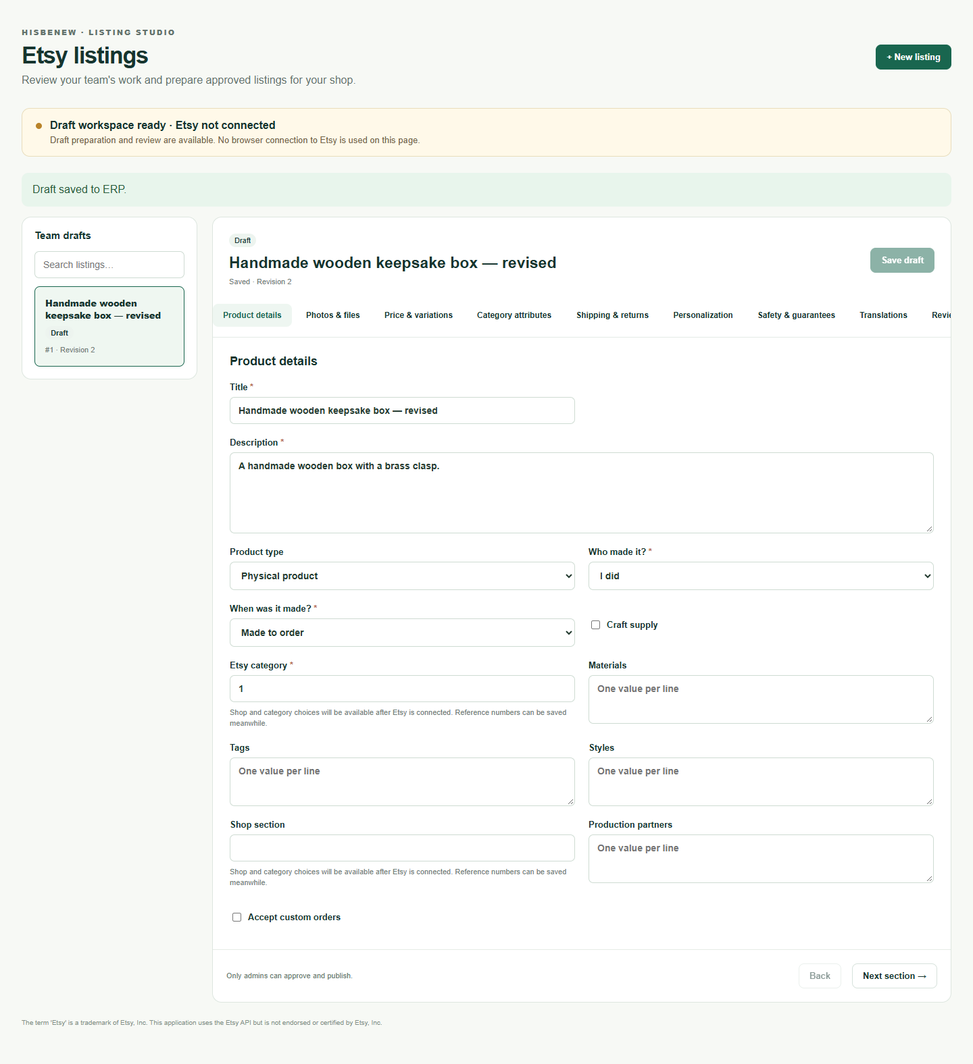
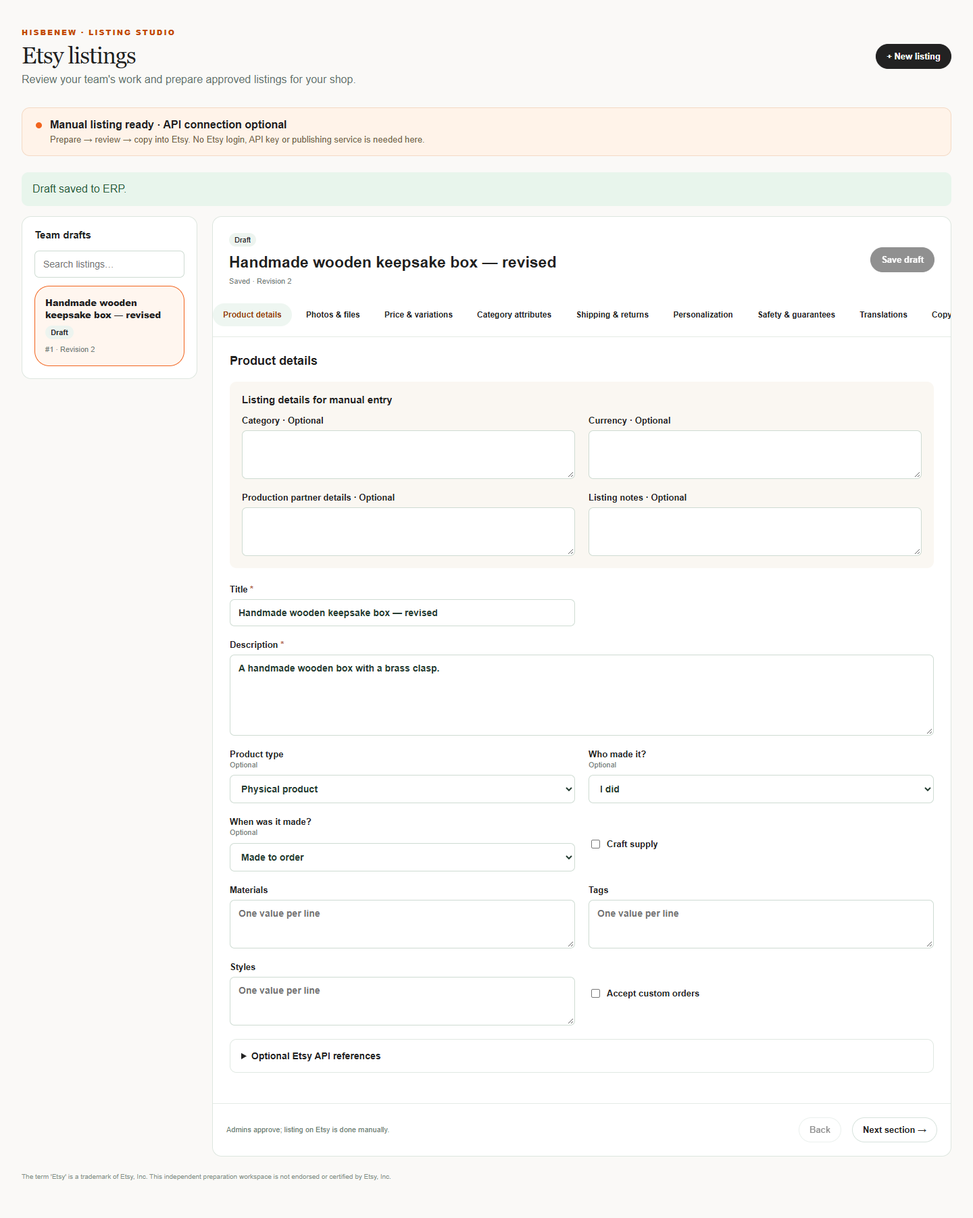
Make Etsy connection optional with manual listing copy workflow

diff --git a/frontend/src/pages/EtsyListings.jsx b/frontend/src/pages/EtsyListings.jsx
@@ -35,8 +35,14 @@ const groups = [
   { name: "Personalization", operations: ["updateListingPersonalization"] },
   { name: "Safety & guarantees", prefix: ["gpsr_", "ecgt_"] },
   { name: "Translations", operations: ["updateListingTranslation"] },
-  { name: "Review & history" },
+  { name: "Copy to Etsy & review" },
 ];
+function copyFields(value, prefix = "") {
+  if (value == null || value === "") return [];
+  if (Array.isArray(value) && value.every((item) => typeof item !== "object")) return value.length ? [[prefix, value.join(", ")]] : [];
+  if (typeof value === "object") return Object.entries(value).flatMap(([key, child]) => copyFields(child, [prefix, Array.isArray(value) ? `Option ${Number(key) + 1}` : title(key)].filter(Boolean).join(" · ")));
+  return [[prefix, typeof value === "boolean" ? (value ? "Yes" : "No") : String(value)]];
+}
 const operationNames = {
   uploadListingImage: "Photo descriptions and order", uploadListingVideo: "Video details", uploadListingFile: "Digital download details",
   updateVariationImages: "Variation photos", updateListingInventory: "Variants and stock", updateListingProperty: "Category-specific attributes",
@@ -66,7 +72,7 @@ function FieldEditor({ name, schema, value, onChange, required = false }) {
   const choiceLabels = { i_did: "I did", someone_else: "Someone else", collective: "A member of my shop", made_to_order: "Made to order", physical: "Physical product", download: "Digital download", both: "Physical and digital (where supported)", text_input: "Text answer", seller: "Our shop", economic_operator: "Registered economic operator" };
   const long = /description|instructions|warnings|details|info/.test(name);
   const help = name.endsWith("_id") || name.endsWith("_ids") ? "Shop and category choices will be available after Etsy is connected. Reference numbers can be saved meanwhile." : null;
-  return <label className={long ? "etsy-wide" : ""}><span>{title(name)}{required && <span className="etsy-required"> *</span>}</span>
+  return <label className={long ? "etsy-wide" : ""}><span>{title(name)}{required ? <span className="etsy-required"> *</span> : <small>Optional</small>}</span>
     {schema.enum ? <select value={value ?? ""} onChange={(e) => onChange(e.target.value || null)}><option value="">Choose…</option>{schema.enum.map((item) => <option key={item} value={item}>{choiceLabels[item] || item.replaceAll("_", " ")}</option>)}</select>
       : long ? <textarea rows={name === "description" ? 6 : 3} value={value ?? ""} onChange={(e) => onChange(e.target.value)} />
       : <input type={["integer", "number"].includes(schema.type) ? "number" : "text"} step={schema.type === "integer" ? "1" : "any"} min={schema.minimum} value={value ?? ""} maxLength={name === "title" ? 140 : undefined} onChange={(e) => onChange(e.target.value === "" ? null : ["integer", "number"].includes(schema.type) ? Number(e.target.value) : e.target.value)} />}
@@ -116,7 +122,7 @@ export default function EtsyListings() {
   const transition = (action) => run(async () => {
     if (dirty) throw new Error("Save changes before submitting or reviewing.");
     const result = await api.post(`${ROOT}/drafts/${selected.id}/transition`, { revision: selected.revision, action, note });
-    adopt(result.data); setMessage(action === "approve" ? "Approved for future publishing. Nothing has been sent to Etsy." : "Listing status updated.");
+    adopt(result.data); setMessage(action === "approve" ? "Approved for manual listing. Open Copy to Etsy to copy the details and download photos." : "Listing status updated.");
   });
   const upload = (kind, file) => run(async () => {
     if (!file) return;
@@ -125,9 +131,9 @@ export default function EtsyListings() {
     const result = await api.post(`${ROOT}/drafts/${selected.id}/assets`, form);
     adopt(result.data); setMessage("File saved privately in ERP.");
   });
-  const openFile = (asset) => run(async () => {
+  const openFile = (asset, download = false) => run(async () => {
     const result = await api.get(`${ROOT}/drafts/${selected.id}/assets/${asset.id}`, { responseType: "blob" });
-    if (asset.kind === "image") {
+    if (asset.kind === "image" && !download) {
       const ext = asset.filename.split(".").pop().toLowerCase();
       const url = URL.createObjectURL(new Blob([result.data], { type: ext === "jpg" || ext === "jpeg" ? "image/jpeg" : `image/${ext}` }));
       setPreview({ url, name: asset.filename });
@@ -142,36 +148,41 @@ export default function EtsyListings() {
   const section = groups[tab];
   const fields = section.prefix ? Object.keys(base.properties).filter((key) => section.prefix.some((prefix) => key.startsWith(prefix))) : section.fields || [];
   return <main className="etsy-workspace">
-    <header className="etsy-heading"><div><p className="etsy-eyebrow">HISBENEW · LISTING STUDIO</p><h1>Etsy listings</h1><p>{workspace.is_admin ? "Review your team's work and prepare approved listings for your shop." : "Prepare listings for the shop. Your administrator reviews and publishes."}</p></div><button className="etsy-primary" disabled={busy || dirty} onClick={create}>+ New listing</button></header>
-    <div className="etsy-connection"><span className="etsy-dot" /><div><strong>Draft workspace ready · Etsy not connected</strong><p>{workspace.connection.message} No browser connection to Etsy is used on this page.</p></div></div>
+    <header className="etsy-heading"><div><p className="etsy-eyebrow">HISBENEW · LISTING STUDIO</p><h1>Etsy listings</h1><p>{workspace.is_admin ? "Review your team's work and prepare approved listings for your shop." : "Prepare listing details and photos. Your administrator reviews them for manual listing on Etsy."}</p></div><button className="etsy-primary" disabled={busy || dirty} onClick={create}>+ New listing</button></header>
+    <div className="etsy-connection"><span className="etsy-dot" /><div><strong>Manual listing ready · API connection optional</strong><p>Prepare → review → copy into Etsy. No Etsy login, API key or publishing service is needed here.</p></div></div>
     {error && <div className="etsy-error" role="alert">{error}</div>}{message && <div className="etsy-success" role="status">{message}</div>}
     <div className="etsy-layout"><aside className="etsy-drafts"><h2>{workspace.is_admin ? "Team drafts" : "My drafts"}</h2><input aria-label="Search drafts" placeholder="Search listings…" value={filter} onChange={(e) => setFilter(e.target.value)} />
       {workspace.drafts.filter((row) => row.title.toLowerCase().includes(filter.toLowerCase())).map((row) => <button key={row.id} className={selected?.id === row.id ? "etsy-draft active" : "etsy-draft"} onClick={() => choose(row)} disabled={busy}><strong>{row.title}</strong><span>{row.status}</span><small>#{row.id} · Revision {row.revision}</small></button>)}
       {!workspace.drafts.length && <p className="etsy-muted">Your first listing starts here. Add product information, then submit it for review.</p>}</aside>
-      {!selected ? <section className="etsy-empty"><span>01 / PREPARE</span><h2>A clear path from product to listing.</h2><p>Product details → photos and variations → admin review → publication after connection.</p><button className="etsy-primary" onClick={create} disabled={busy}>Create a draft</button></section>
+      {!selected ? <section className="etsy-empty"><span>01 / PREPARE</span><h2>A clear path from product to listing.</h2><p>Product details → photos and variations → review → copy and paste into Etsy.</p><button className="etsy-primary" onClick={create} disabled={busy}>Create a draft</button></section>
         : <section className="etsy-editor"><div className="etsy-editor-heading"><div><span className="etsy-status">{selected.status}</span><h2>{data.createDraftListing?.title || "Untitled listing"}</h2><small>{dirty ? "Unsaved changes" : `Saved · Revision ${selected.revision}`}</small></div>{editable && <button className="etsy-primary" onClick={save} disabled={busy || !dirty}>Save draft</button>}</div>
           {selected.review_note && <div className="etsy-review-note"><strong>Admin feedback</strong><p>{selected.review_note}</p></div>}
           <nav className="etsy-tabs" aria-label="Listing sections">{groups.map((group, i) => <button key={group.name} className={tab === i ? "active" : ""} onClick={() => setTab(i)}>{group.name}</button>)}</nav>
           <div className="etsy-section"><h2>{section.name}</h2>
-            {tab === 3 && <p className="etsy-muted">Attributes depend on the selected Etsy category. The connected version will load its choices, scales and required attributes automatically. This workspace currently accepts reference values for preparation.</p>}
+            {tab === 3 && <p className="etsy-muted">Describe category attributes in plain language below. Your publisher can select the matching options on Etsy.</p>}
             {tab === 5 && <p className="etsy-muted">Etsy currently documents support for one text-answer question. Other question types appear in its API schema but must remain unavailable for publication until supported.</p>}
-            {tab === 4 && <p className="etsy-muted">Choose the shop's shipping, processing and return policies after connection. Digital downloads do not use physical shipping profiles.</p>}
+            {tab === 4 && <p className="etsy-muted">Describe shipping, processing and return policies below; choose the matching policies when listing on Etsy. Digital downloads do not use physical shipping profiles.</p>}
             {tab !== 8 && <fieldset disabled={!editable || busy} key={`${selected.id}-${selected.revision}-${tab}`} className="etsy-form">
               {tab === 1 && <><div className="etsy-uploads">{[["image", "Add photo", ".jpg,.jpeg,.png,.webp"], ["video", "Add video", ".mp4,.mov"], ["digital", "Add digital file", ".pdf,.zip,.png,.jpg,.jpeg,.txt,.svg,.stl,.epub,.mp3"]].map(([kind, label, accept]) => <label key={kind}>{label}<input type="file" accept={accept} disabled={dirty} onChange={(e) => { upload(kind, e.target.files[0]); e.target.value = ""; }} /></label>)}</div><p className="etsy-muted">Up to 20 photos, one video and five digital files. Save text changes before uploading.</p></>}
-              <div className="etsy-field-grid">{fields.map((key) => <FieldEditor key={key} name={key} schema={base.properties[key]} value={data.createDraftListing?.[key]} required={base.required.includes(key)} onChange={(v) => change("createDraftListing", { ...data.createDraftListing, [key]: v })} />)}</div>
+              {[0, 2, 3, 4].includes(tab) && <div className="etsy-manual-notes"><h3>{tab === 0 ? "Listing details for manual entry" : "Optional instructions for the person listing on Etsy"}</h3><div className="etsy-field-grid">{({0: ["category", "currency", "production_partner_details", "listing_notes"], 2: ["variation_instructions"], 3: ["attributes"], 4: ["shipping_instructions", "processing_instructions", "return_instructions"]}[tab]).map((key) => <label key={key}>{title(key)} · Optional<textarea rows="3" value={data.manualListing?.[key] || ""} onChange={(e) => change("manualListing", {...data.manualListing, [key]: e.target.value})} /></label>)}</div></div>}
+              <div className="etsy-field-grid">{fields.filter((key) => !key.endsWith("_id") && !key.endsWith("_ids")).map((key) => <FieldEditor key={key} name={key} schema={base.properties[key]} value={data.createDraftListing?.[key]} required={["title", "description", "price", "quantity"].includes(key)} onChange={(v) => change("createDraftListing", { ...data.createDraftListing, [key]: v })} />)}</div>
+              {fields.some((key) => key.endsWith("_id") || key.endsWith("_ids")) && <details className="etsy-operation"><summary>Optional Etsy API references</summary><p className="etsy-muted">Skip these for manual listing. Use the category and policy notes above.</p><div className="etsy-field-grid">{fields.filter((key) => key.endsWith("_id") || key.endsWith("_ids")).map((key) => <FieldEditor key={key} name={key} schema={base.properties[key]} value={data.createDraftListing?.[key]} onChange={(v) => change("createDraftListing", {...data.createDraftListing, [key]: v})} />)}</div></details>}
               {(section.operations || []).map((operation) => <details className="etsy-operation" key={operation} open={operation === "updateListingPersonalization"}><summary>{operationNames[operation]}</summary><FieldEditor name={operation} schema={schema[operation]} value={data[operation]} onChange={(v) => change(operation, v)} /></details>)}
             </fieldset>}
             {tab === 1 && <><div className="etsy-asset-list">{selected.assets.map((asset) => <div key={asset.id}><span><strong>{asset.filename}</strong><small>{asset.kind} · reference {asset.id} · {(asset.size / 1024).toFixed(0)} KB</small></span><button onClick={() => openFile(asset)} disabled={busy}>{asset.kind === "image" ? "Preview" : "Download"}</button>{editable && <button disabled={busy || dirty} onClick={() => run(async () => { const result = await api.delete(`${ROOT}/drafts/${selected.id}/assets/${asset.id}`, { params: { revision: selected.revision } }); adopt(result.data); })}>Remove</button>}</div>)}</div>{preview && <figure><img className="etsy-image-preview" src={preview.url} alt={preview.name} /><figcaption>{preview.name}</figcaption></figure>}</>}
-            {tab === 8 && <><div className="etsy-review-summary"><h3>Preparation checks</h3>{selected.issues.length ? <ul>{selected.issues.map((issue) => <li key={issue}>{issue.replaceAll("createDraftListing.", "").replaceAll("_", " ")}</li>)}</ul> : <p>Basic field checks passed. Shop profiles, category rules and media still need Etsy validation after connection.</p>}</div>
+            {tab === 8 && <><section className="etsy-copy-panel"><h3>Copy to Etsy</h3><p>Open Etsy in your usual browser. Copy each value into the matching field, download the photos, then review and publish there.</p><p className="etsy-muted">{selected.status === "Approved" ? "Approved for manual listing." : "This listing has not been approved yet."} Copying does not publish anything.</p>
+              {Object.entries(data).flatMap(([operation, values]) => copyFields(values, operation === "manualListing" || operation === "createDraftListing" ? "" : (operationNames[operation] || title(operation)))).map(([label, value]) => <div className="etsy-copy-item" key={label}><div className="etsy-row"><strong>{label}</strong><button className="etsy-copy-icon" aria-label={`Copy ${label}`} title={`Copy ${label}`} disabled={busy || dirty} onClick={() => run(async () => { await navigator.clipboard.writeText(value); setMessage(`${label} copied.`); })}><svg width="18" height="18" viewBox="0 0 24 24" fill="none" stroke="currentColor" strokeWidth="1.7" aria-hidden="true"><rect x="8" y="8" width="12" height="13" rx="2"/><path d="M16 8V5a2 2 0 0 0-2-2H5a2 2 0 0 0-2 2v9a2 2 0 0 0 2 2h3"/></svg></button></div><textarea aria-label={label + " to copy"} readOnly value={value} rows={value.length > 150 ? 5 : 2} /></div>)}
+              <h3>Photos and files</h3>{selected.assets.map((asset) => <button key={asset.id} disabled={busy} onClick={() => openFile(asset, true)}>Download {asset.filename}</button>)}{!selected.assets.length && <p>No files uploaded yet.</p>}
+              </section><div className="etsy-review-summary"><h3>Preparation checks</h3>{selected.issues.length ? <ul>{selected.issues.map((issue) => <li key={issue}>{issue.replaceAll("createDraftListing.", "").replaceAll("_", " ")}</li>)}</ul> : <p>Ready for review. Check photos, category, policies and any Etsy requirements when creating the listing.</p>}</div>
               <label>Review message<textarea value={note} onChange={(e) => setNote(e.target.value)} readOnly={!workspace.is_admin} rows="3" /></label>
               <div className="etsy-actions">{editable && <button className="etsy-primary" disabled={busy || dirty} onClick={() => transition("submit")}>Submit for review</button>}
                 {workspace.is_admin && selected.status === "In review" && <button className="etsy-primary" disabled={busy || dirty} onClick={() => transition("approve")}>Approve draft</button>}
                 {workspace.is_admin && ["In review", "Approved"].includes(selected.status) && <><button disabled={busy || dirty} onClick={() => transition("return")}>Request changes</button><button disabled={busy || dirty} onClick={() => transition("reopen")}>Reopen for editing</button></>}
-                {workspace.is_admin && <button disabled title="Connect and verify the UK publishing service first">Publish to Etsy · Not connected</button>}</div>
+                <span className="etsy-muted">List manually on Etsy after approval. API publishing is optional and not connected.</span></div>
               <h3>Activity history</h3><ol className="etsy-history">{[...selected.history].reverse().map((event, i) => <li key={i}><strong>{event.action}</strong><small>{event.actor} · {new Date(event.at + "Z").toLocaleString()}</small></li>)}</ol>
             </>}
-          </div><footer className="etsy-footer"><span>{workspace.is_admin ? "Only admins can approve and publish." : "Your access is for listing preparation only."}</span><button disabled={tab === 0} onClick={() => setTab(tab - 1)}>Back</button><button onClick={() => setTab(Math.min(tab + 1, 8))} disabled={tab === 8}>Next section →</button></footer>
+          </div><footer className="etsy-footer"><span>{workspace.is_admin ? "Admins approve; listing on Etsy is done manually." : "Your access is for listing preparation only."}</span><button disabled={tab === 0} onClick={() => setTab(tab - 1)}>Back</button><button onClick={() => setTab(Math.min(tab + 1, 8))} disabled={tab === 8}>Next section →</button></footer>
         </section>}
-    </div><p className="etsy-trademark">The term 'Etsy' is a trademark of Etsy, Inc. This application uses the Etsy API but is not endorsed or certified by Etsy, Inc.</p>
+    </div><p className="etsy-trademark">The term 'Etsy' is a trademark of Etsy, Inc. This independent preparation workspace is not endorsed or certified by Etsy, Inc.</p>
   </main>;
 }

diff --git a/frontend/src/pages/EtsyListings.css b/frontend/src/pages/EtsyListings.css
@@ -1,1 +1,4 @@
 .etsy-workspace{--etsy-ink:#17352f;--etsy-accent:#19664f;max-width:1500px;margin:0 auto;padding:32px;color:var(--etsy-ink);font-family:inherit}.etsy-workspace *{box-sizing:border-box}.etsy-heading,.etsy-row,.etsy-editor-heading,.etsy-footer,.etsy-actions{display:flex;align-items:center;justify-content:space-between;gap:16px}.etsy-heading h1{font-size:34px;letter-spacing:-1px;margin:5px 0}.etsy-heading p{color:#64736d;margin:8px 0}.etsy-eyebrow{font-size:11px;font-weight:800;letter-spacing:2px}.etsy-workspace button{border:1px solid #d7e2dc;border-radius:8px;background:white;color:var(--etsy-ink);padding:10px 15px;cursor:pointer;font:inherit;font-size:13px;font-weight:650}.etsy-workspace button:hover:not(:disabled){background:#eef6f1}.etsy-workspace button:disabled{opacity:.5;cursor:not-allowed}.etsy-workspace button.etsy-primary{background:var(--etsy-accent);color:white;border-color:var(--etsy-accent)}.etsy-connection{display:flex;gap:12px;background:#fff9e9;border:1px solid #e8ddbc;border-radius:12px;padding:16px 20px;margin:24px 0}.etsy-connection p{font-size:13px;color:#716345;margin:5px 0 0}.etsy-dot{width:9px;height:9px;background:#b98329;border-radius:50%;margin-top:5px;flex-shrink:0}.etsy-layout{display:grid;grid-template-columns:260px 1fr;gap:22px}.etsy-drafts,.etsy-editor,.etsy-empty{border:1px solid #dde6df;border-radius:14px;background:white;overflow:hidden}.etsy-drafts{padding:18px;align-self:start}.etsy-drafts h2{font-size:15px;margin:0 0 15px}.etsy-drafts input{width:100%}.etsy-workspace button.etsy-draft{display:flex;flex-direction:column;align-items:start;text-align:left;width:100%;margin-top:12px;gap:7px;padding:15px}.etsy-draft.active{border-color:#19664f;background:#eff7f1!important}.etsy-draft strong{overflow-wrap:anywhere}.etsy-draft span,.etsy-status{font-size:11px;background:#edf4ef;padding:4px 8px;border-radius:20px}.etsy-workspace small{display:block;font-size:11px;font-weight:400;line-height:1.5;color:#74827a}.etsy-editor-heading{padding:24px}.etsy-editor-heading h2{font-size:23px;margin:12px 0 6px;overflow-wrap:anywhere}.etsy-tabs{display:flex;gap:6px;overflow-x:auto;padding:0 20px 15px;border-bottom:1px solid #e4ebe5}.etsy-tabs button{white-space:nowrap;border:none;font-size:12px}.etsy-tabs button.active{background:#e9f3ed;color:#19664f}.etsy-section{padding:25px;min-height:420px}.etsy-section>h2{font-size:18px;margin:0 0 20px}.etsy-field-grid{display:grid;grid-template-columns:repeat(2,minmax(0,1fr));gap:20px}.etsy-wide{grid-column:1/-1}.etsy-workspace label{display:flex;flex-direction:column;gap:7px;font-size:13px;font-weight:600}.etsy-workspace input:not([type=checkbox]),.etsy-workspace select,.etsy-workspace textarea{border:1px solid #cedbd2;border-radius:7px;padding:11px 12px;color:#253c31;background:#fff;font:inherit;font-size:14px;min-width:0;width:100%}.etsy-workspace input:focus,.etsy-workspace textarea:focus,.etsy-workspace select:focus{outline:2px solid #a5cbb6;outline-offset:1px}.etsy-workspace textarea{resize:vertical}.etsy-check{flex-direction:row!important;align-items:center;min-height:45px}.etsy-form{border:0;padding:0;margin:0;min-width:0}.etsy-required{color:#ad4e32;display:inline}.etsy-operation{border:1px solid #e0e8e2;border-radius:10px;margin:20px 0;padding:16px}.etsy-operation summary{font-size:14px;font-weight:650;cursor:pointer}.etsy-operation[open]>summary{margin-bottom:18px}.etsy-repeat{grid-column:1/-1;min-width:0}.etsy-repeat h3{font-size:14px;margin:5px 0 12px}.etsy-repeat-item{border:1px solid #d9e4dc;border-radius:10px;padding:16px;margin:12px 0;background:#fafcf9}.etsy-repeat-item>.etsy-row{margin-bottom:15px}.etsy-repeat-item .etsy-repeat-item{background:white}.etsy-empty{padding:70px 45px;min-height:460px;background:linear-gradient(135deg,#f6faf5,#fff)}.etsy-empty>span{letter-spacing:2px;font-size:11px;color:#607e6d}.etsy-empty h2{font-size:34px;max-width:450px;line-height:1.2}.etsy-empty p{color:#718477;line-height:1.8}.etsy-empty button{margin-top:20px}.etsy-muted{font-size:13px;color:#738077;line-height:1.7}.etsy-footer{padding:20px;border-top:1px solid #e5ebe6;justify-content:flex-end}.etsy-footer>span{font-size:11px;color:#6a7b71;margin-right:auto}.etsy-uploads{display:grid;grid-template-columns:repeat(3,1fr);gap:12px}.etsy-uploads label{border:1px dashed #9bb4a4;border-radius:10px;padding:15px;background:#f7faf6}.etsy-uploads input{font-size:11px!important;padding:5px!important;border:0!important}.etsy-asset-list>div{display:flex;align-items:center;gap:10px;padding:12px 0;border-bottom:1px solid #e7ede8}.etsy-asset-list span{flex:1;overflow-wrap:anywhere}.etsy-image-preview{max-width:100%;max-height:400px;object-fit:contain}.etsy-history{padding-left:20px}.etsy-history li{padding:10px 0;font-size:13px}.etsy-review-note,.etsy-review-summary{padding:18px;background:#f3f7ed;border-radius:10px;margin-bottom:20px}.etsy-review-note{margin:0 24px 20px}.etsy-review-summary h3{margin:0 0 10px}.etsy-review-summary li{font-size:13px;margin:8px 0}.etsy-actions{justify-content:flex-start;flex-wrap:wrap;margin:20px 0}.etsy-error,.etsy-success{padding:16px;border-radius:10px;margin:15px 0;white-space:pre-wrap}.etsy-error{background:#fff0ec;color:#933b2b}.etsy-success{background:#e8f5ec;color:#265b39}.etsy-trademark{font-size:10px;color:#839087;margin:24px 0}.etsy-workspace fieldset:disabled input,.etsy-workspace fieldset:disabled textarea,.etsy-workspace fieldset:disabled select{background:#f5f7f4;color:#6e7870}@media(max-width:950px){.etsy-layout{grid-template-columns:1fr}.etsy-drafts{display:flex;gap:10px;overflow:auto;align-items:center}.etsy-drafts h2{min-width:90px}.etsy-drafts>input{min-width:160px}.etsy-workspace button.etsy-draft{min-width:190px;max-width:240px;margin:0}.etsy-workspace{padding:18px}}@media(max-width:600px){.etsy-heading{align-items:flex-start}.etsy-heading h1{font-size:27px}.etsy-field-grid,.etsy-uploads{grid-template-columns:1fr}.etsy-section{padding:18px}.etsy-editor-heading{padding:18px}.etsy-footer{flex-wrap:wrap}.etsy-footer>span{width:100%}.etsy-empty{padding:40px 24px}.etsy-workspace{padding:12px}.etsy-drafts>input{display:none}}
+
+/* Familiar marketplace form styling, with manual publishing as the default. */
+.etsy-workspace{--etsy-ink:#222;--etsy-accent:#222;background:#faf9f7}.etsy-heading h1{font-family:Georgia,serif;font-weight:400}.etsy-eyebrow{color:#c44900!important}.etsy-connection{background:#fff3e9;border-color:#f4dac5}.etsy-dot{background:#f1641e}.etsy-tabs button.active{background:#fff0e5;color:#963c09}.etsy-workspace button{border-radius:22px}.etsy-draft.active{border-color:#f1641e;background:#fff6ef!important}.etsy-copy-panel{border:1px solid #e5ddd6;padding:20px;border-radius:12px;margin-bottom:24px}.etsy-copy-panel>p{line-height:1.7}.etsy-copy-item{margin:18px 0}.etsy-copy-item .etsy-row{margin-bottom:8px}.etsy-copy-panel>button{margin:4px}.etsy-manual-notes{padding:18px;background:#faf7f2;border-radius:10px;margin-bottom:24px}.etsy-manual-notes h3{font-size:15px;margin-top:0}

diff --git a/backend/app/etsy/router.py b/backend/app/etsy/router.py
@@ -33,6 +33,10 @@ for name, path_fields in {
     item["properties"].update(path_fields)
     item["required"] = list(set(item.get("required", [])) | set(path_fields))
     SCHEMAS[name] = {"type": "object", "properties": {"entries": {"type": "array", "items": item}}}
+SCHEMAS["manualListing"] = {"type": "object", "properties": {
+    key: {"type": "string"} for key in (
+        "category", "attributes", "currency", "shipping_instructions", "processing_instructions",
+        "return_instructions", "production_partner_details", "variation_instructions", "listing_notes")}}
 CATALOG["draft_schemas"] = SCHEMAS
 PRIVATE_DIR = APP_DATA_DIR / "etsy_listing_assets"
 EDITABLE = {"Draft", "Changes requested"}
@@ -112,18 +116,20 @@ def validate_data(data, complete=False):
     errors = []
     if len(json.dumps(data)) > 2 * 1024 * 1024:
         return ["Listing content exceeds 2 MB."]
-    if set(data) - set(OPERATIONS):
+    if set(data) - set(SCHEMAS):
         errors.append("Unknown listing section")
     for name, values in data.items():
-        if name in OPERATIONS:
-            check_value(values, SCHEMAS[name], name, errors, complete)
+        if name in SCHEMAS:
+            check_value(values, SCHEMAS[name], name, errors, False)
     if errors:
         return list(dict.fromkeys(errors))
     listing = data.get("createDraftListing", {})
     if listing is None:
         listing = {}
     if complete:
-        check_value(listing, OPERATIONS["createDraftListing"]["schema"], "Listing", errors, True)
+        for key in ("title", "description"):
+            if not str(listing.get(key) or "").strip():
+                errors.append(f"{key}: required for review")
         for key in ("quantity", "price"):
             if not isinstance(listing.get(key), (int, float)) or listing[key] <= 0:
                 errors.append(f"{key}: must be greater than zero")
@@ -166,7 +172,7 @@ def workspace(request: Request, db: Session = Depends(get_db)):
     if not admin:
         query = query.filter_by(owner_id=user.id)
     return {"is_admin": admin, "catalog": CATALOG, "connection": {"connected": False,
-            "message": "Etsy publishing is not connected. Draft preparation and review are available."},
+            "message": "Manual listing is ready. An Etsy API connection is optional."},
             "drafts": [response(row, db) for row in query.order_by(EtsyDraft.updated_at.desc()).limit(200)]}
 
 

diff --git a/backend/tests/test_etsy_workspace.py b/backend/tests/test_etsy_workspace.py
@@ -74,6 +74,18 @@ class EtsyWorkspaceTests(unittest.TestCase):
         saved = save_draft(draft["id"], SaveDraft(revision=returned["revision"], data=self.content), self.request(self.friend), self.db)
         self.assertGreater(saved["revision"], returned["revision"])
 
+    def test_manual_listing_can_be_approved_without_api_references(self):
+        self.content = {"createDraftListing": {"title": "Wooden box", "description": "Handmade box", "price": 20, "quantity": 1},
+                        "manualListing": {"category": "Home / Storage", "currency": "GBP", "shipping_instructions": "Royal Mail"}}
+        draft = self.create()
+        self.assertEqual(draft["issues"], [])
+        submitted = transition(draft["id"], Transition(revision=draft["revision"], action="submit"), self.request(self.friend), self.db)
+        approved = transition(draft["id"], Transition(revision=submitted["revision"], action="approve"), self.request(self.admin), self.db)
+        self.assertEqual(approved["status"], "Approved")
+        self.assertEqual(approved["data"]["manualListing"]["currency"], "GBP")
+        self.assertFalse(workspace(self.request(self.admin), self.db)["connection"]["connected"])
+        self.assertTrue(validate_data({"createDraftListing": {"title": "  ", "price": 0, "quantity": 1}}, True))
+
     def test_other_users_and_tenants_cannot_read_or_edit_drafts(self):
         draft = self.create()
         for user in [self.other, self.outside]:
